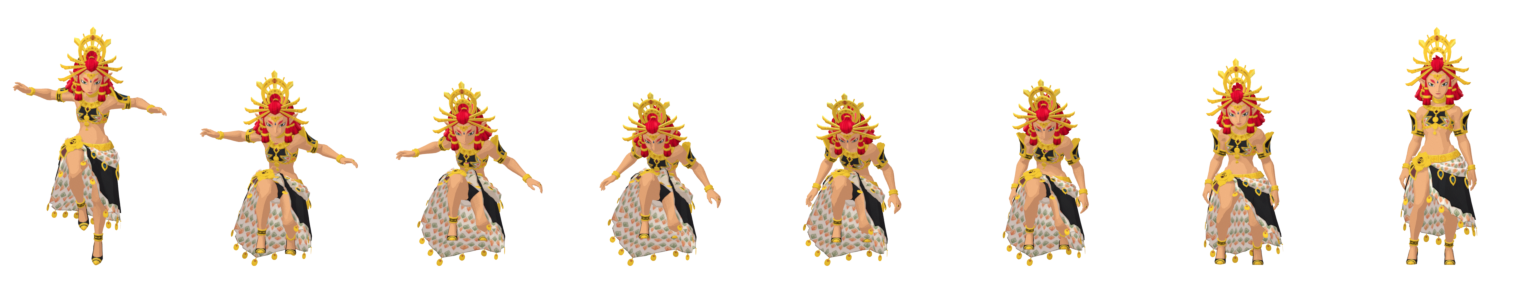
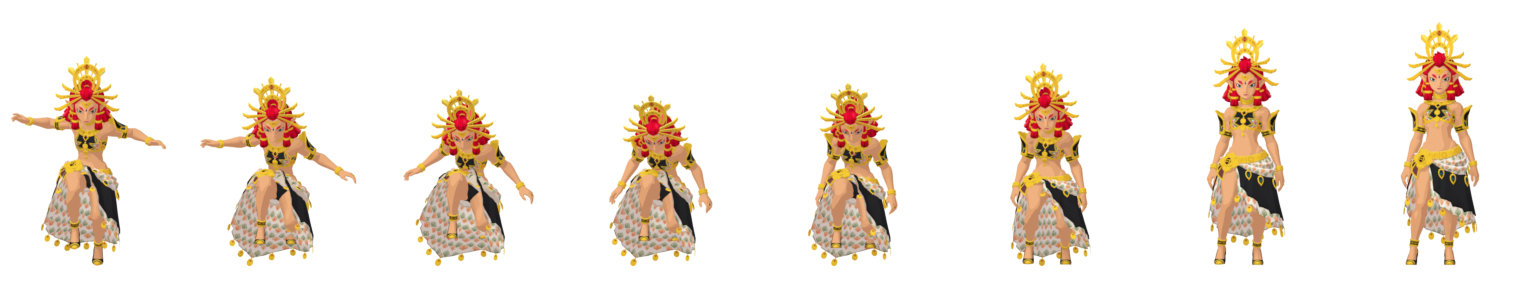
fix(assistant): drive airborne phases from verified game animation commands

diff --git a/tests/companion_activity_probe.c b/tests/companion_activity_probe.c
@@ -12,6 +12,9 @@ int main(void){
  ptr(component+0x90,actor);ptr(component+0x18,set);ptr(set+0x18,controller);ptr(controller+0x40,bb);
  ptr(bb+0x18,0x1b00);u32(0x1b00,15);ptr(bb+0x20,0x1c00);u32(0x1c00,77);
  ptr(bb+0x28,0x1e00);u32(0x1e00,65);ptr(bb+0x30,0x1f00);u32(0x1f00,1);
+ u32(controller+0x18,7);ptr(controller+0x20,0x2200);ptr(0x2200,0x2300);
+ ptr(0x2300+0x10,0x2500);ptr(0x2300+0x28,bb);ptr(0x2300+0x90,controller);
+ put(0x2500,"Wait",5);
  RuntimePlayerActivity a;assert(activity_decode143(read_fake,actor,&a)&&a.active&&a.valid);
  memory[0xe00+4+14]=1;assert(activity_decode143(read_fake,actor,&a)&&a.airborne);
  memory[0xe00+4+14]=2;assert(!activity_decode143(read_fake,actor,&a)&&!a.valid);
@@ -19,6 +22,12 @@ int main(void){
  ptr(component+0x90,0x1008);assert(!activity_decode143(read_fake,actor,&a));ptr(component+0x90,actor);
  ptr(set+0x18,0xffff);assert(!activity_decode143(read_fake,actor,&a));ptr(set+0x18,controller);
  assert(activity_decode143(read_fake,actor,&a));
+ assert(!strcmp(a.action,"Wait"));
+ ptr(0x2300+0x90,controller+8);assert(!activity_decode143(read_fake,actor,&a));ptr(0x2300+0x90,controller);
+ ptr(0x2300+0x28,bb+8);assert(!activity_decode143(read_fake,actor,&a));ptr(0x2300+0x28,bb);
+ u32(controller+0x18,8);assert(!activity_decode143(read_fake,actor,&a));u32(controller+0x18,7);
+ memset(memory+0x1500,'X',64);assert(!activity_decode143(read_fake,actor,&a));put(0x2500,"Wait",5);
+ assert(activity_decode143(read_fake,actor,&a));a.action[0]=0;
  PetActivityTracker t={0};double now=1;
  #define STEP(dt) (a.observation++,now+=(dt),pet_activity_update(&t,&a,now,now))
  assert(STEP(.1)==PET_IDLE);a.speed=2;STEP(.1);assert(STEP(.15)==PET_WALK);
@@ -26,11 +35,11 @@ int main(void){
  a.airborne=1;a.velocity[1]=3;assert(STEP(.1)==PET_JUMP);
  a.velocity[1]=-2;assert(STEP(.1)==PET_FALL);a.gliding=1;assert(STEP(.1)==PET_GLIDE);
  a.gliding=a.airborne=0;a.speed=0;assert(STEP(.1)==PET_GLIDE);assert(STEP(.1)==PET_LAND);
- assert(STEP(.2)==PET_LAND);assert(STEP(.11)==PET_IDLE);
+ assert(STEP(.1)==PET_LAND);assert(STEP(.11)==PET_IDLE);
  // Recovery ends on the first eligible sample; do not debounce locomotion again.
  a.airborne=1;a.velocity[1]=-2;a.speed=5;assert(STEP(.1)==PET_FALL);
  a.airborne=0;assert(STEP(.1)==PET_FALL);assert(STEP(.1)==PET_LAND);
- assert(STEP(.2)==PET_LAND);assert(STEP(.11)==PET_RUN);
+ assert(STEP(.1)==PET_LAND);assert(STEP(.11)==PET_RUN);
  // A new jump interrupts recovery immediately, even in a rapid jump sequence.
  a.airborne=1;a.velocity[1]=3;assert(STEP(.1)==PET_JUMP);
  a.airborne=0;STEP(.1);assert(STEP(.1)==PET_LAND);
@@ -49,7 +58,7 @@ int main(void){
  // Apex jitter and one false contact cannot alternate jump/fall/land every sample.
  t=(PetActivityTracker){0};a.combat=0;a.speed=0;a.airborne=1;a.velocity[1]=3;
  assert(STEP(.1)==PET_JUMP);
- for(int i=0;i<6;i++){a.velocity[1]=i%2?.2:-.2;assert(STEP(.1)==PET_JUMP);}
+ for(int i=0;i<6;i++){a.velocity[1]=i%2?.05:-.05;assert(STEP(.1)==PET_JUMP);}
  a.velocity[1]=-2;assert(STEP(.1)==PET_FALL);
  a.velocity[1]=.3;assert(STEP(.1)==PET_FALL);
  a.airborne=0;assert(STEP(.1)==PET_FALL);
@@ -58,19 +67,20 @@ int main(void){
  a.airborne=0;STEP(.1);a.airborne=1;a.velocity[1]=4;assert(STEP(.1)==PET_JUMP);
  a.airborne=0;assert(STEP(.1)==PET_JUMP);assert(STEP(.1)==PET_LAND);
  a.active=0;assert(STEP(.01)==PET_IDLE);
- // Captured wall-hang observation: InAir=1, vy=0.000033; changing observations
- // must not keep a free-fall pose forever. Do not call this a climb detector.
- a.active=1;a.airborne=1;a.velocity[1]=.000033f;a.speed=.0017f;
- assert(STEP(.1)==PET_FALL);assert(STEP(.1)==PET_FALL);
- assert(STEP(.1)==PET_FALL);STEP(.1);assert(STEP(.1)==PET_IDLE);
- assert(STEP(.1)==PET_IDLE);
- a.airborne=0;assert(STEP(.1)==PET_IDLE); // no fabricated landing on wall exit
- a.airborne=1;a.velocity[1]=.000033f;STEP(.1);STEP(.2);STEP(.2);
- a.velocity[1]=-2;assert(STEP(.1)==PET_FALL); // letting go resumes falling
- a.velocity[1]=0;a.gliding=1;
- for(int i=0;i<8;i++)assert(STEP(.1)==PET_GLIDE);
- t=(PetActivityTracker){0};a.gliding=0;a.velocity[1]=3;
- assert(STEP(.1)==PET_JUMP);a.velocity[1]=0;
- assert(STEP(.1)==PET_JUMP);assert(STEP(.1)==PET_JUMP); // brief apex is preserved
+ // Verified primary commands override misleading InAir and climbing velocity.
+ a.active=1;a.airborne=1;a.speed=2;strcpy(a.action,"ClimbMove");a.velocity[1]=2;
+ assert(STEP(.033)==PET_CLIMB);a.velocity[1]=-2;assert(STEP(.033)==PET_CLIMB);
+ strcpy(a.action,"ClimbWait");a.velocity[1]=.000033f;assert(STEP(.033)==PET_CLIMB);
+ strcpy(a.action,"WallOff");assert(STEP(.033)==PET_CLIMB);
+ strcpy(a.action,"Fall");a.velocity[1]=-2;assert(STEP(.033)==PET_FALL);
+ strcpy(a.action,"Land");a.airborne=0;assert(STEP(.033)==PET_LAND);
+ strcpy(a.action,"Move");a.speed=5;assert(STEP(.033)==PET_RUN); // no extra landing hold
+ strcpy(a.action,"Jump");a.velocity[1]=4;assert(STEP(.033)==PET_JUMP); // before InAir flips
+ a.airborne=1;a.velocity[1]=0;assert(STEP(.033)==PET_JUMP);
+ a.velocity[1]=-.2;assert(STEP(.033)==PET_FALL);
+ a.velocity[1]=.05;assert(STEP(.033)==PET_FALL); // no apex chatter
+ strcpy(a.action,"ClimbMove");assert(STEP(.033)==PET_CLIMB);
+ strcpy(a.action,"Wait");a.airborne=0;a.speed=0;assert(STEP(.033)==PET_IDLE); // no fake landing
+ strcpy(a.action,"UnknownAirAction");a.airborne=1;a.velocity[1]=-3;assert(STEP(.033)==PET_IDLE);
  puts("PASS: guarded layout, invalid reads, hysteresis, jump/land, combat, pause, stale data and actor replacement");
 }

diff --git a/games/totk/runtime/companion_activity.h b/games/totk/runtime/companion_activity.h
@@ -1,17 +1,17 @@
 #ifndef TOTK_COMPANION_ACTIVITY_H
 #define TOTK_COMPANION_ACTIVITY_H
 #include "player_activity.h"
-typedef enum { PET_IDLE,PET_WALK,PET_RUN,PET_JUMP,PET_FALL,PET_GLIDE,PET_LAND,PET_COMBAT,PET_COMBAT_RUN } PetActivity;
+typedef enum { PET_IDLE,PET_WALK,PET_RUN,PET_JUMP,PET_FALL,PET_GLIDE,PET_LAND,PET_COMBAT,PET_COMBAT_RUN,PET_CLIMB } PetActivity;
 // Shared with sprite playback: finish the recovery before returning to locomotion.
-#define PET_LAND_SECONDS .30
+#define PET_LAND_SECONDS .20
 typedef struct {
- PetActivity state,pending;double since,last,last_valid,grounded_since,land_until,air_still_since;uint64_t actor,observation;double changed;uint32_t generation;int was_air,falling;
+ PetActivity state,pending;double since,last,last_valid,grounded_since,land_until;uint64_t actor,observation;double changed;uint32_t generation;int was_air,falling;
 } PetActivityTracker;
 static inline const char *pet_activity_name(PetActivity state){
- const char *names[]={"idle","walk","run","jump","fall","glide","land","combat","combat_run"};
- return state>=PET_IDLE&&state<=PET_COMBAT_RUN?names[state]:"idle";
+ const char *names[]={"idle","walk","run","jump","fall","glide","land","combat","combat_run","climb"};
+ return state>=PET_IDLE&&state<=PET_CLIMB?names[state]:"idle";
 }
-/* Ten samples/second. The observation's age is supplied independently of polling time.
+/* Bounded shared UI sampling. The observation's age is supplied independently of polling time.
    A single failed read gets at most 180 ms grace; paused/old samples reset immediately. */
 static inline PetActivity pet_activity_update(PetActivityTracker *t,const RuntimePlayerActivity *a,double sample_time,double now){
  if(!isfinite(now)||!isfinite(sample_time)||now-sample_time>.3||now<sample_time||now<t->last){memset(t,0,sizeof *t);return PET_IDLE;}
@@ -29,26 +29,35 @@ static inline PetActivity pet_activity_update(PetActivityTracker *t,const Runtim
  // Stop reacting if the whole AS sample plus position has stopped changing.
  if(now-t->changed>.6){t->state=t->pending=PET_IDLE;t->was_air=0;t->land_until=0;return PET_IDLE;}
  PetActivity desired=PET_IDLE;
- if(a->water||a->riding){t->was_air=t->falling=0;t->grounded_since=t->land_until=t->air_still_since=0;}
- else if(a->airborne||a->gliding){
-  // InAir is also true while hanging on a wall. A sustained near-zero vertical
-  // speed cannot justify a free-fall pose. This is a neutral fallback, NOT a
-  // climbing detector; brief jump apexes and explicit gliding keep their pose.
-  if(!a->gliding&&fabsf(a->velocity[1])<.1f){
-   if(!t->air_still_since)t->air_still_since=now;
-   if(now-t->air_still_since>=.35){
-    t->state=t->pending=PET_IDLE;t->was_air=t->falling=0;
-    t->grounded_since=t->land_until=0;return PET_IDLE;
-   }
-  }else t->air_still_since=0;
+ const char *action=a->action;
+ int known=action[0]!=0;
+ int climbing=!strncmp(action,"Climb",5)||!strncmp(action,"Ladder",6)||!strcmp(action,"WallOff");
+ int jump=!strcmp(action,"Jump")||!strcmp(action,"JumpMove");
+ int fall=!strcmp(action,"Fall");
+ int land=!strncmp(action,"Land",4);
+ if(climbing){
+  t->state=t->pending=PET_CLIMB;t->was_air=t->falling=0;
+  t->grounded_since=t->land_until=0;return PET_CLIMB;
+ }
+ // A valid but unsupported airborne action is not evidence of free fall.
+ if(known&&a->airborne&&!jump&&!fall&&!land&&!a->gliding){
+  t->state=t->pending=PET_IDLE;t->was_air=t->falling=0;
+  t->grounded_since=t->land_until=0;return PET_IDLE;
+ }
+ if(land){
+  t->state=t->pending=PET_LAND;t->was_air=t->falling=0;
+  t->grounded_since=t->land_until=0;return PET_LAND;
+ }
+ if(a->water||a->riding){t->was_air=t->falling=0;t->grounded_since=t->land_until=0;}
+ else if(a->airborne||a->gliding||jump||fall){
   // One-way apex: noise around zero must not restart jump/fall clips.
-  if(!t->was_air)t->falling=a->velocity[1]<=.5;
-  else if(a->velocity[1]<-.5)t->falling=1;
+  if(!t->was_air)t->falling=fall||a->velocity[1]<-.1;
+  else if(fall||a->velocity[1]<-.1)t->falling=1;
   desired=a->gliding?PET_GLIDE:t->falling?PET_FALL:PET_JUMP;
   t->was_air=1;t->grounded_since=t->land_until=0;
  }else{
-  t->air_still_since=0;
-  if(t->was_air){
+  if(known){t->was_air=t->falling=0;t->grounded_since=t->land_until=0;}
+  if(t->was_air&&!known){
    if(!t->grounded_since)t->grounded_since=now;
    if(now-t->grounded_since<.08)return t->state; // confirm contact across two samples
    t->land_until=now+PET_LAND_SECONDS;t->was_air=t->falling=0;t->grounded_since=0;
@@ -58,7 +67,7 @@ static inline PetActivity pet_activity_update(PetActivityTracker *t,const Runtim
   desired=now<t->land_until?PET_LAND:(a->combat||a->aiming)?(moving?PET_COMBAT_RUN:PET_COMBAT):moving?(running?PET_RUN:PET_WALK):PET_IDLE;
  }
  if(desired==PET_LAND||desired==PET_JUMP||desired==PET_FALL||desired==PET_GLIDE){t->state=t->pending=desired;t->since=now;}
- else if(t->state==PET_LAND){t->state=t->pending=desired;t->since=now;}
+ else if(t->state==PET_LAND||t->state==PET_CLIMB||(known&&(t->state==PET_JUMP||t->state==PET_FALL))){t->state=t->pending=desired;t->since=now;}
  else if(desired!=t->pending){t->pending=desired;t->since=now;}
  else if(now-t->since>=.12)t->state=desired;
  return t->state;

diff --git a/games/totk/runtime/player_activity.h b/games/totk/runtime/player_activity.h
@@ -9,6 +9,7 @@ typedef struct {
  uint64_t actor, observation; uint32_t generation;
  float speed, velocity[3];
  int valid, active, airborne, water, combat, aiming, gliding, riding;
+ char action[64]; /* primary AS command, read with controller/blackboard ownership guards */
  int diagnostic; /* 1 actor, 2 AS component, 3 controller, 4 schema, 5 values, 6 changed */
 } RuntimePlayerActivity;
 typedef int (*ActivityRead)(uintptr_t,void *,size_t);
@@ -30,6 +31,21 @@ static inline int activity_decode143(ActivityRead read,uintptr_t actor,RuntimePl
  a.diagnostic=4;*out=a;
  uint8_t flags[65];float floats[77],vel[3];int32_t ints[15];
  if(!activity_array(read,bb,0x18,15,ints,sizeof ints)||!activity_array(read,bb,0x20,77,floats,sizeof floats)||!activity_array(read,bb,0x28,65,flags,sizeof flags)||!activity_array(read,bb,0x30,1,vel,sizeof vel))return 0;
+ // Verified on 1.4.3: controller slot 0 is the primary animation graph instance.
+ // The instance owns its command name and points back to this controller and BB.
+ uint32_t slots=0;uintptr_t entries=activity_ptr(read,controller+0x20);
+ uintptr_t instance=entries?activity_ptr(read,entries):0;
+ uintptr_t command=instance?activity_ptr(read,instance+0x10):0;
+ if(!read(controller+0x18,&slots,4)||slots!=7||!instance||!command||
+    activity_ptr(read,instance+0x28)!=bb||activity_ptr(read,instance+0x90)!=controller)return 0;
+ unsigned len=0;
+ for(;len<sizeof a.action;len++){
+  unsigned char ch=0;if(!read(command+len,&ch,1))return 0;
+  if(!ch)break;
+  if(!((ch>='A'&&ch<='Z')||(ch>='a'&&ch<='z')||(ch>='0'&&ch<='9')||ch=='_'))return 0;
+  a.action[len]=(char)ch;
+ }
+ if(!len||len==sizeof a.action||activity_ptr(read,instance+0x10)!=command||activity_ptr(read,entries)!=instance)return 0;
  a.diagnostic=5;*out=a;
  for(unsigned i=0;i<65;i++)if(flags[i]>1)return 0;
  for(unsigned i=0;i<3;i++)if(!isfinite(vel[i])||fabsf(vel[i])>150)return 0;
@@ -42,8 +58,8 @@ static inline int activity_decode143(ActivityRead read,uintptr_t actor,RuntimePl
  float position[3];if(!read(actor+0x2b4,position,sizeof position))return 0;
  for(unsigned i=0;i<3;i++)if(!isfinite(position[i]))return 0;
  uint64_t hash=14695981039346656037ull;
- const void *parts[]={ints,floats,flags,vel,position};const size_t sizes[]={sizeof ints,sizeof floats,sizeof flags,sizeof vel,sizeof position};
- for(unsigned k=0;k<5;k++)for(size_t j=0;j<sizes[k];j++){hash^=((const unsigned char *)parts[k])[j];hash*=1099511628211ull;}
+ const void *parts[]={ints,floats,flags,vel,position,a.action};const size_t sizes[]={sizeof ints,sizeof floats,sizeof flags,sizeof vel,sizeof position,sizeof a.action};
+ for(unsigned k=0;k<6;k++)for(size_t j=0;j<sizes[k];j++){hash^=((const unsigned char *)parts[k])[j];hash*=1099511628211ull;}
  a.observation=hash;
  a.speed=floats[4];memcpy(a.velocity,vel,sizeof vel);
  a.airborne=flags[14];a.water=flags[15]||flags[41];a.combat=flags[16];a.aiming=flags[19];

diff --git a/games/totk/tools/companion/render_actions.py b/games/totk/tools/companion/render_actions.py
@@ -18,9 +18,9 @@ clips={
  'run':('Common_Move_Run',10,20,True),
  'combat':('Combat_Wait',20,40,True),
  'combat_run':('Combat_Move_Run',10,20,True),
- 'jump':('Jump',9,18,False),
- 'fall':('Jump',12,0,True),
- 'land':('Jump_Ed',8,15,False),
+ 'jump':('Jump_St',6,4,False),
+ 'fall':('Jump_Ed',6,4,False),
+ 'land':('Jump_Ed',8,11,False),
  'idle':('Default_Wait',25,50,True),
  'greeting':('Default_Joy_Hello',18,36,False),
  'fidget':('Default_Wait_Random',128,255,False),
@@ -58,8 +58,14 @@ for name,(action,count,duration,loop) in clips.items():
  folder=OUT/name;folder.mkdir(exist_ok=True)
  first=pose(action,1)
  for i in range(count):
-  f=9 if name=='fall' else 1+duration*i/count
+  f=1+duration*i/count
+  if name=='jump':f=1+4*min(1,i/3)
+  if name=='fall':f=1+i/(count-1)
+  if name=='land':f=2+14*i/(count-1)
   matrices=pose(action,f)
+  if name=='jump' and i>=3:
+   target=pose('Jump',1)
+   matrices={n:mix(m,target[n],smooth((i-3)/2)) for n,m in matrices.items()}
   if name in ('walk','run','combat_run'):
    matrices['Root']=idle['Root'].copy()  # Remove travel; retain the authored limb cycle.
   # Original loops are eased into the first pose over their final four samples.
@@ -68,7 +74,7 @@ for name,(action,count,duration,loop) in clips.items():
    matrices={n:mix(m,first[n],amount) for n,m in matrices.items()}
   # One-shot gestures depart from and return to the same idle pose. A 4-frame
   # ramp is enough for the lightweight dock without snapping arms at boundaries.
-  if not loop and name not in ('jump','land'):
+  if not loop and name not in ('jump','fall','land'):
    strength=smooth(min(1,i/4,(count-1-i)/4))
    matrices={n:mix(idle[n],m,strength) for n,m in matrices.items()}
   arm.animation_data.action=None
@@ -77,7 +83,7 @@ for name,(action,count,duration,loop) in clips.items():
   if name in ('walk','run','combat','combat_run','land'):
    arm.location.z+=max(0,base_floor-mesh_floor());bpy.context.view_layer.update()
   s.render.filepath=str(folder/f'{i:03d}.png');bpy.ops.render.render(write_still=True)
- manifest['clips'][name]={'file':name+'.png','frames':count,'loop':loop,'fps':15,'source_action':action}
+ manifest['clips'][name]={'file':name+'.png','frames':count,'loop':loop,'fps':30 if name in ('jump','fall','land') else 15,'source_action':action}
  (OUT/'manifest.json').write_text(json.dumps(manifest,indent=2))
  print('CLIP_DONE',name,count,flush=True)
 print('COMPANION_ACTIONS_DONE',sum(v[1] for v in clips.values()),flush=True)

diff --git a/skills/native-game-companion/implementation.md b/skills/native-game-companion/implementation.md
@@ -65,25 +65,42 @@ landing. A single failed guarded read can hold the previous visual state for at
 most 180 ms; explicit paused state, stale samples and identity changes still reset.
 Tests inject apex jitter, a one-sample false landing and brief/long read failures.
 
-## Landing recovery timing
+## Primary animation commands and airborne playback (supersedes velocity fallback)
 
-Use one duration for the state machine and sprite playback (`PET_LAND_SECONDS`,
-0.30 seconds). Landing exit bypasses ordinary locomotion debounce: adding that
-delay after a fixed landing hold made the character appear to wait before running.
-Play all eight recovery frames within that interval and use an 80 ms transition
-at landing boundaries. Keep two-sample contact confirmation and immediate airborne
-interrupts. Tests cover landing to idle/run, rapid re-jumping, and reaching the last
-recovery sprite before the interval expires. These checks validate timing, not a
-claim that sprite crossfades are continuous skeletal blending.
+Do not identify climbing or free fall from InAir/vertical velocity alone. The
+previous 350 ms stationary-air fallback failed while climbing moved. In a muted
+private 1.4.3 session the primary AS graph command reads Wait, Move, Jump, Land,
+ClimbMove, ClimbWait, WallOff and Fall as the corresponding actions happen.
 
-## InAir also covers wall hanging
+Verified chain after the existing AS controller/blackboard checks:
+- Controller +0x18: slot count 7; +0x20: inline slot buffer pointer.
+- First slot +0: primary graph instance.
+- Instance +0x10: current command string; +0x28: owning blackboard;
+  +0x90: owning controller. Validate both backlinks and bounded ASCII name.
+- Re-read the slot instance and command pointer, actor generation/state and
+  controller/blackboard ownership before publishing. Failure stays invalid.
 
-A read-only sample of the user's wall-hanging session returned InAir=1,
-speed_xz=0.001749 and vertical_velocity=0.0000333. Do not interpret InAir as
-proof of free fall. Until a version-verified climbing action reader is available,
-use neutral idle after 350 ms with |vy| < 0.1 (except explicit gliding), and do
-not invent a landing when that neutral state ends. Resume falling immediately
-when vertical motion returns. This only handles sustained vertical stillness;
-it does not identify moving climbs, ladders or wall jumps. Do not claim climbing
-support from this fallback. Tests include the observed values, changing sample
-fingerprints, release into falling, a short apex and explicit gliding.
+Climb*/Ladder*/WallOff map to explicit climbing classification and quiet idle
+visuals until a matching companion climb animation exists. Only Jump/JumpMove,
+Fall or explicit gliding justify airborne visuals. Unknown airborne commands
+stay neutral. Land starts recovery immediately; Wait/Move end it immediately.
+The old extra ground-confirmation delay and fixed landing hold are not applied
+when a verified command exists. Never label this as an authored climb animation.
+
+The shared classifier now polls at up to 30 Hz, and airborne crossfades take
+50 ms with the same constant-alpha compositor. Original Jump was nearly a held
+pose, so replaying it for both ascent/descent looked frozen. Render Jump_St into
+Jump for takeoff; use Jump_Ed frames 1–2 for descent and 2–16 for contact/recovery.
+Do not use later contact frames in descent: crouching before landing also clipped
+the skirt. New jump/fall/land assets have 6/6/8 frames at 30 fps; landing playback
+fits 200 ms. Validate each alpha boundary (20 frames passed, minimum 8 px margin).
+
+Live verification recorded 78 valid observations: three stationary jumps, one
+running jump, moving and stationary climbing, wall release and landing. Each
+jump sampled jump→fall→land→idle/run at roughly 0/0.21/0.43/0.64 seconds relative
+to its first sample. These are animation phase times, not end-to-end latency
+measurements (the diagnostic command stream samples at about 10 Hz). Moving and
+stationary climb samples stayed classified as climb with idle visuals. WallOff
+remained neutral, then Fall/Land/Wait followed correctly. Wait for autoload to
+finish and a valid Wait command before driving the test; Actor presence alone
+is insufficient, and DemoWait can occur during loading.

diff --git a/skills/native-game-companion/SKILL.md b/skills/native-game-companion/SKILL.md
@@ -13,7 +13,7 @@ Use the game's animation blackboard or another verified live state source. A hel
 
 Version-gate memory layouts. Read through guarded memory copies, validate chain ownership, array counts, finite values and actor identity before publishing a sample. Reset on unload, identity change or stale data. Unknown means quiet idle; do not substitute stale movement. Do not invoke guest virtual functions from the AppKit thread.
 
-Keep sampling bounded and local. The resident player list is appropriate; a full nearby-actor scan, model call or screenshot per animation frame is not. Use one shared sample for portrait and dock. Give recording, speaking and dragging priority over gameplay reactions. Hysteresis prevents walk/run flicker; landing is an edge-triggered one-shot. A combat stance flag does not prove an enemy is nearby or an attack occurred.
+Keep sampling bounded and local. The resident player list is appropriate; a full nearby-actor scan, model call or screenshot per animation frame is not. Use one shared sample for portrait and dock. Give recording, speaking and dragging priority over gameplay reactions. Prefer a guarded primary animation command over InAir alone: InAir is also true while climbing. Hysteresis prevents walk/run flicker; do not add a fixed hold after an authoritative landing command has ended. A combat stance flag does not prove an enemy is nearby or an attack occurred.
 
 ## Skeletal animation and rendering
 
